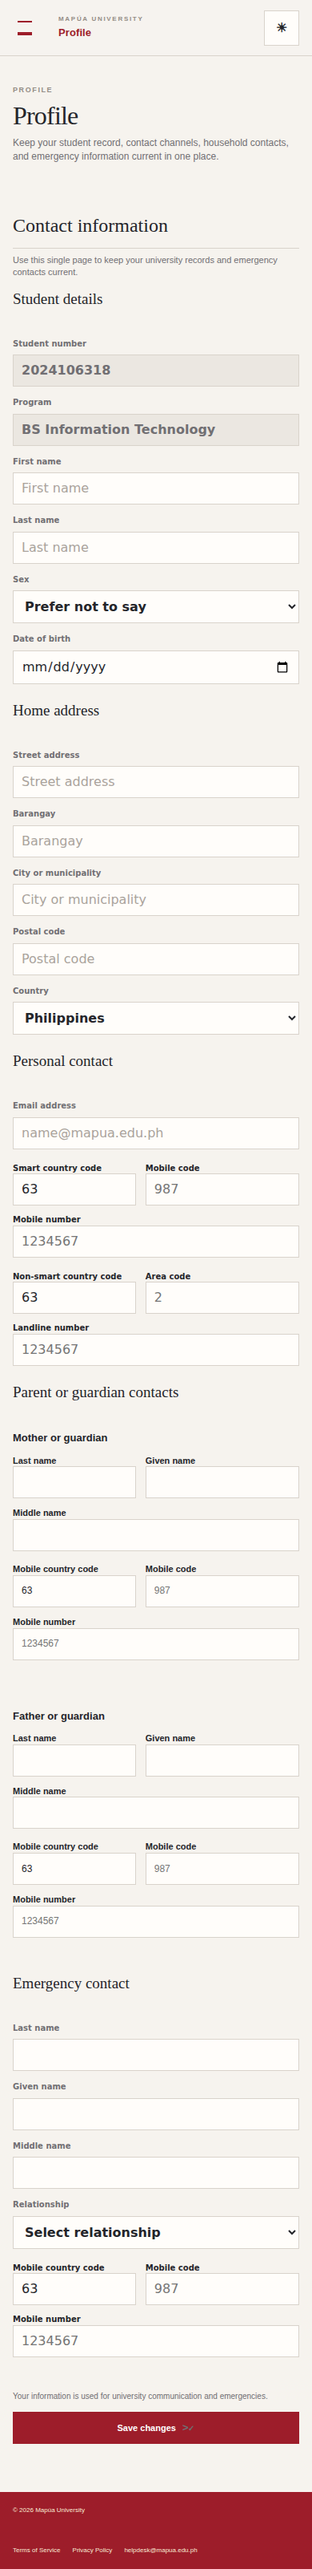
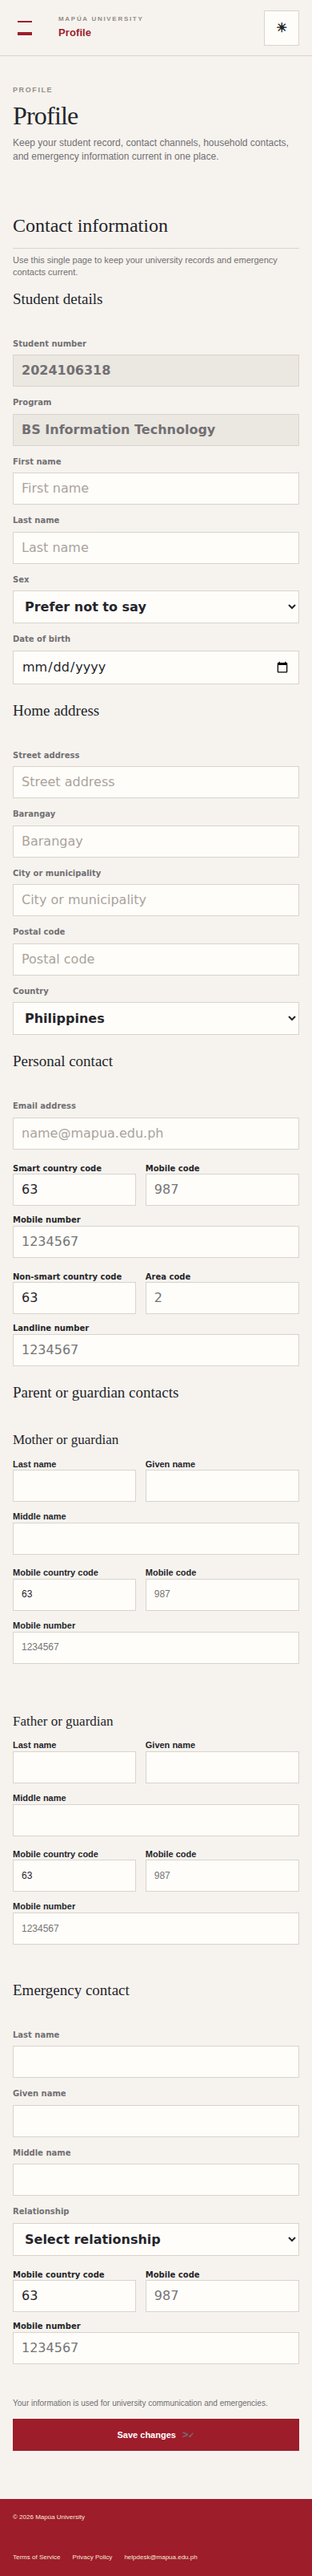
align guardian fonts

diff --git a/styles.css b/styles.css
@@ -3062,6 +3062,19 @@ html[data-theme="dark"] .quick-card:hover strong {
 	font-size: 12px;
 	font-weight: 400;
 }
+
+.content .contact-form .contact-person h3 {
+	font-family: Georgia, "Times New Roman", serif !important;
+	font-size: 19px;
+	font-weight: 400;
+	line-height: 1.2;
+}
+
+@media(max-width:800px) {
+	.content .contact-form .contact-person h3 {
+		font-size: 17px;
+	}
+}
 .content .payment-method-grid .payment-logo,
 html[data-theme="dark"] .content .payment-method-grid .payment-logo {
 	display: grid;
